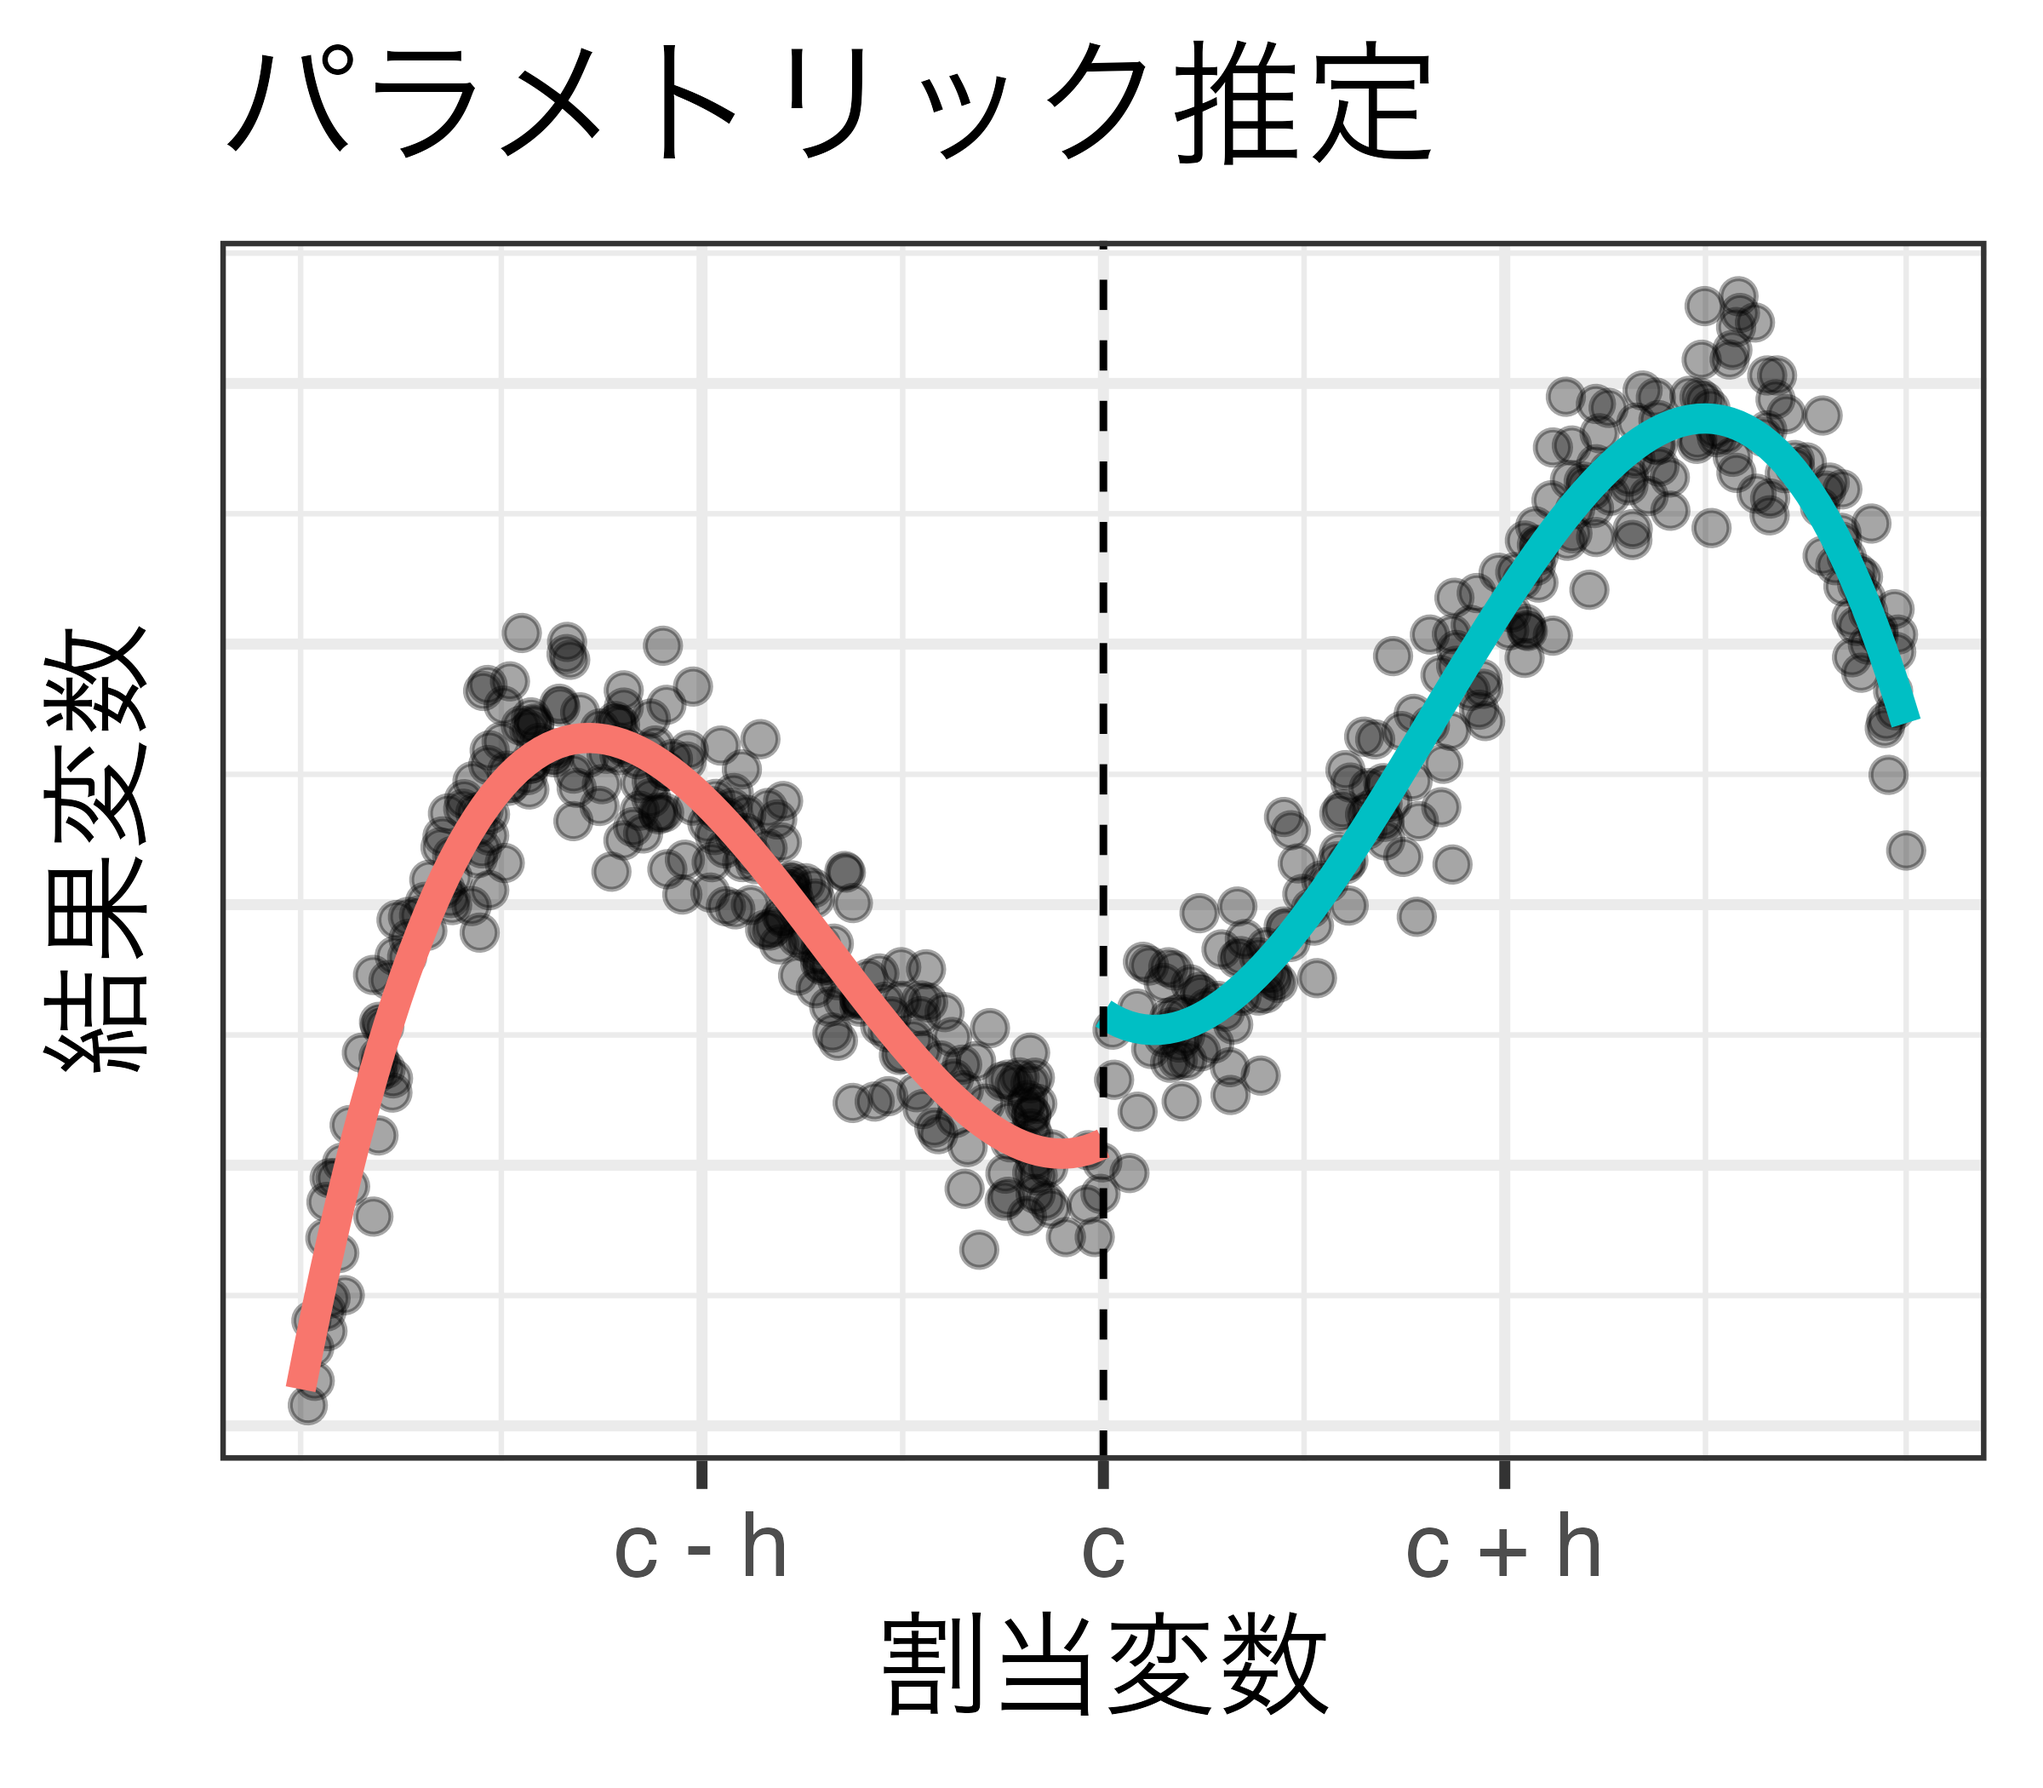
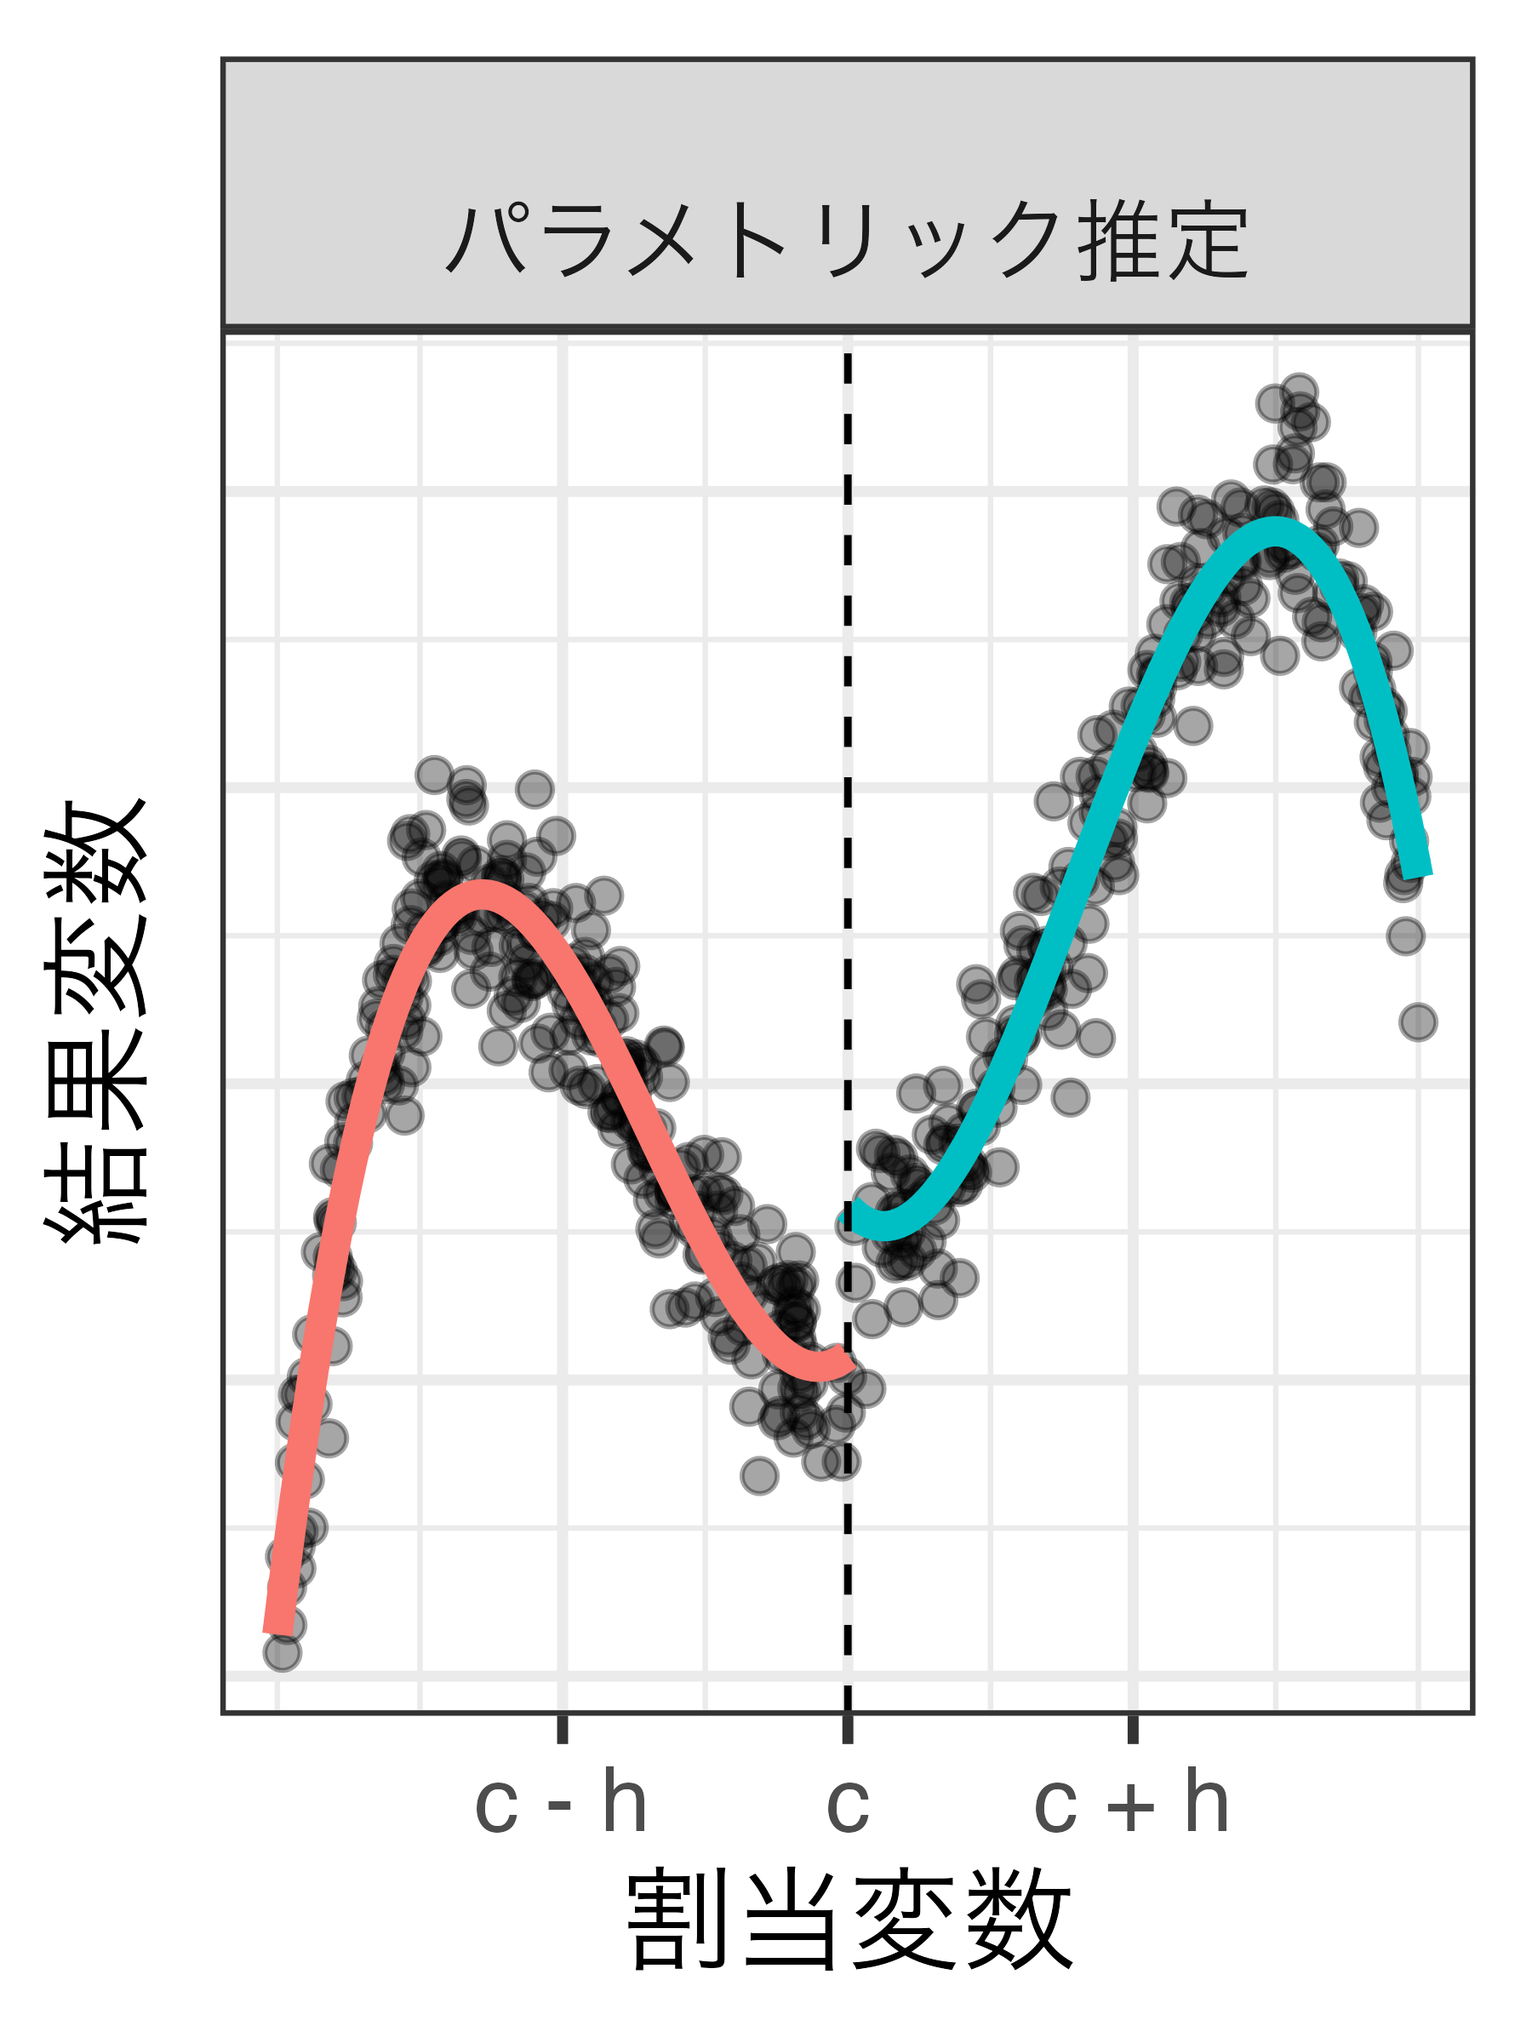
no message

Changed region(s): [[0.0, 0.0, 0.9956, 0.9595]]

diff --git a/docs/rdd_slide.html b/docs/rdd_slide.html
@@ -622,19 +622,26 @@ D_i = \begin{cases}
 <ul>
 <li>「線形+交差項」か「二次多項式+交差項」で十分な場合が多い</li>
 </ul>
-<div class="cell quarto-layout-panel" data-layout-align="center" data-layout-ncol="2">
+<div class="cell quarto-layout-panel" data-layout-align="center" data-layout-ncol="3">
 <div class="quarto-layout-row">
-<div class="quarto-layout-cell" style="flex-basis: 50.0%;justify-content: center;">
+<div class="quarto-layout-cell" style="flex-basis: 33.3%;justify-content: center;">
 <div class="quarto-figure quarto-figure-center">
 <figure>
-<p><img data-src="rdd_slide_files/figure-revealjs/unnamed-chunk-34-1.png" class="quarto-figure quarto-figure-center" width="1200"></p>
+<p><img data-src="rdd_slide_files/figure-revealjs/unnamed-chunk-34-1.png" class="quarto-figure quarto-figure-center" width="900"></p>
 </figure>
 </div>
 </div>
-<div class="quarto-layout-cell" style="flex-basis: 50.0%;justify-content: center;">
+<div class="quarto-layout-cell" style="flex-basis: 33.3%;justify-content: center;">
 <div class="quarto-figure quarto-figure-center">
 <figure>
-<p><img data-src="rdd_slide_files/figure-revealjs/unnamed-chunk-34-2.png" class="quarto-figure quarto-figure-center" width="1200"></p>
+<p><img data-src="rdd_slide_files/figure-revealjs/unnamed-chunk-34-2.png" class="quarto-figure quarto-figure-center" width="900"></p>
+</figure>
+</div>
+</div>
+<div class="quarto-layout-cell" style="flex-basis: 33.3%;justify-content: center;">
+<div class="quarto-figure quarto-figure-center">
+<figure>
+<p><img data-src="rdd_slide_files/figure-revealjs/unnamed-chunk-34-3.png" class="quarto-figure quarto-figure-center" width="900"></p>
 </figure>
 </div>
 </div>
